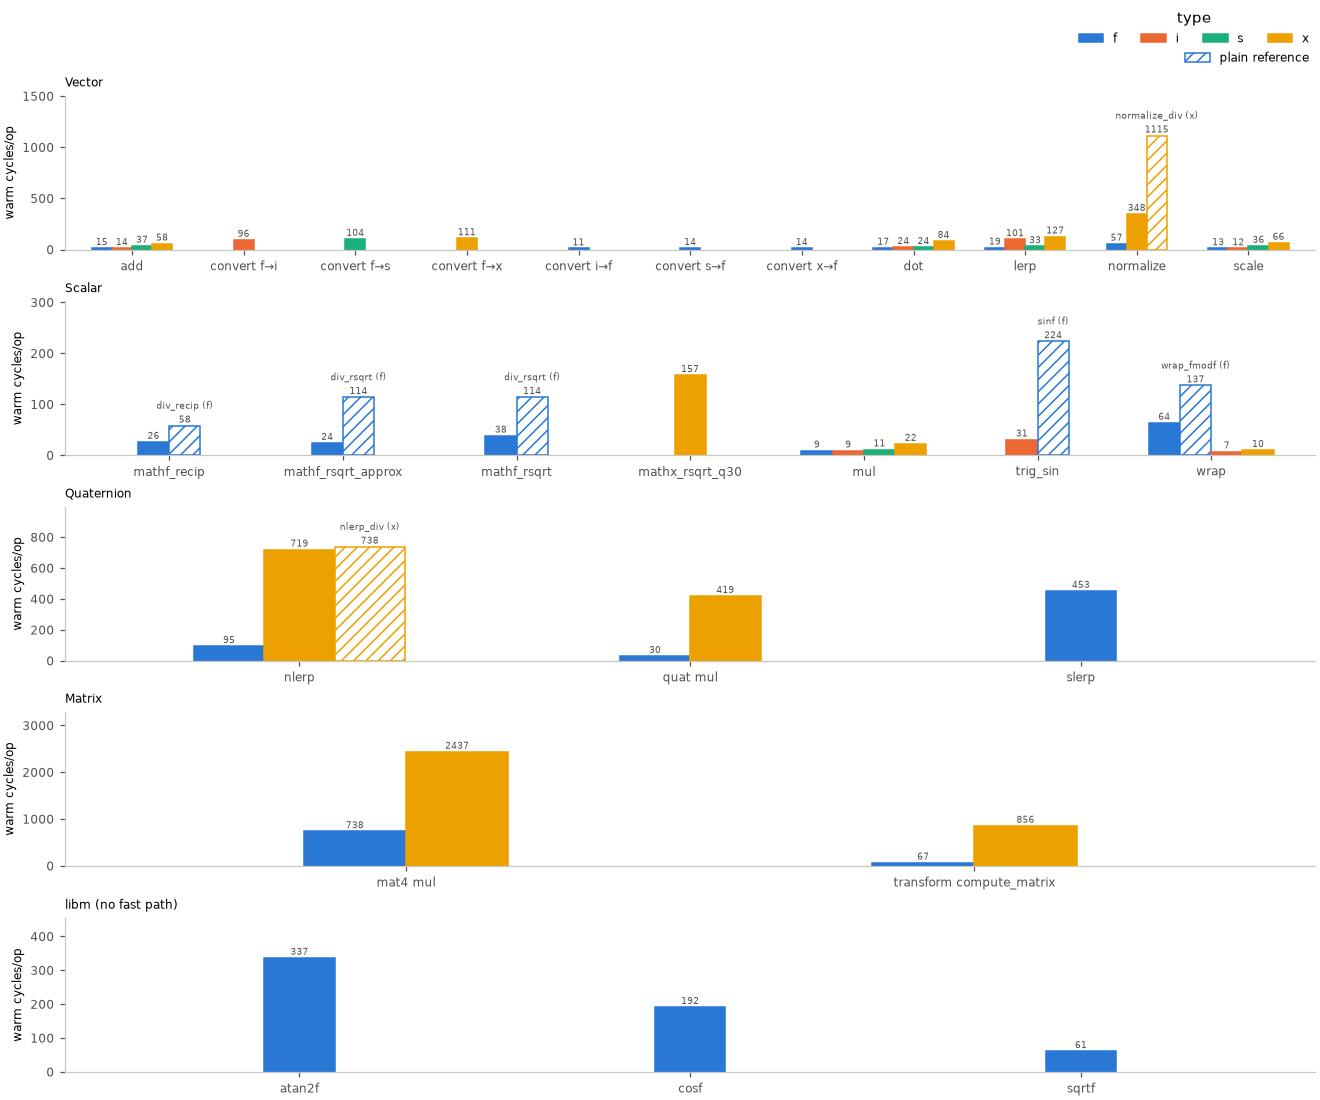
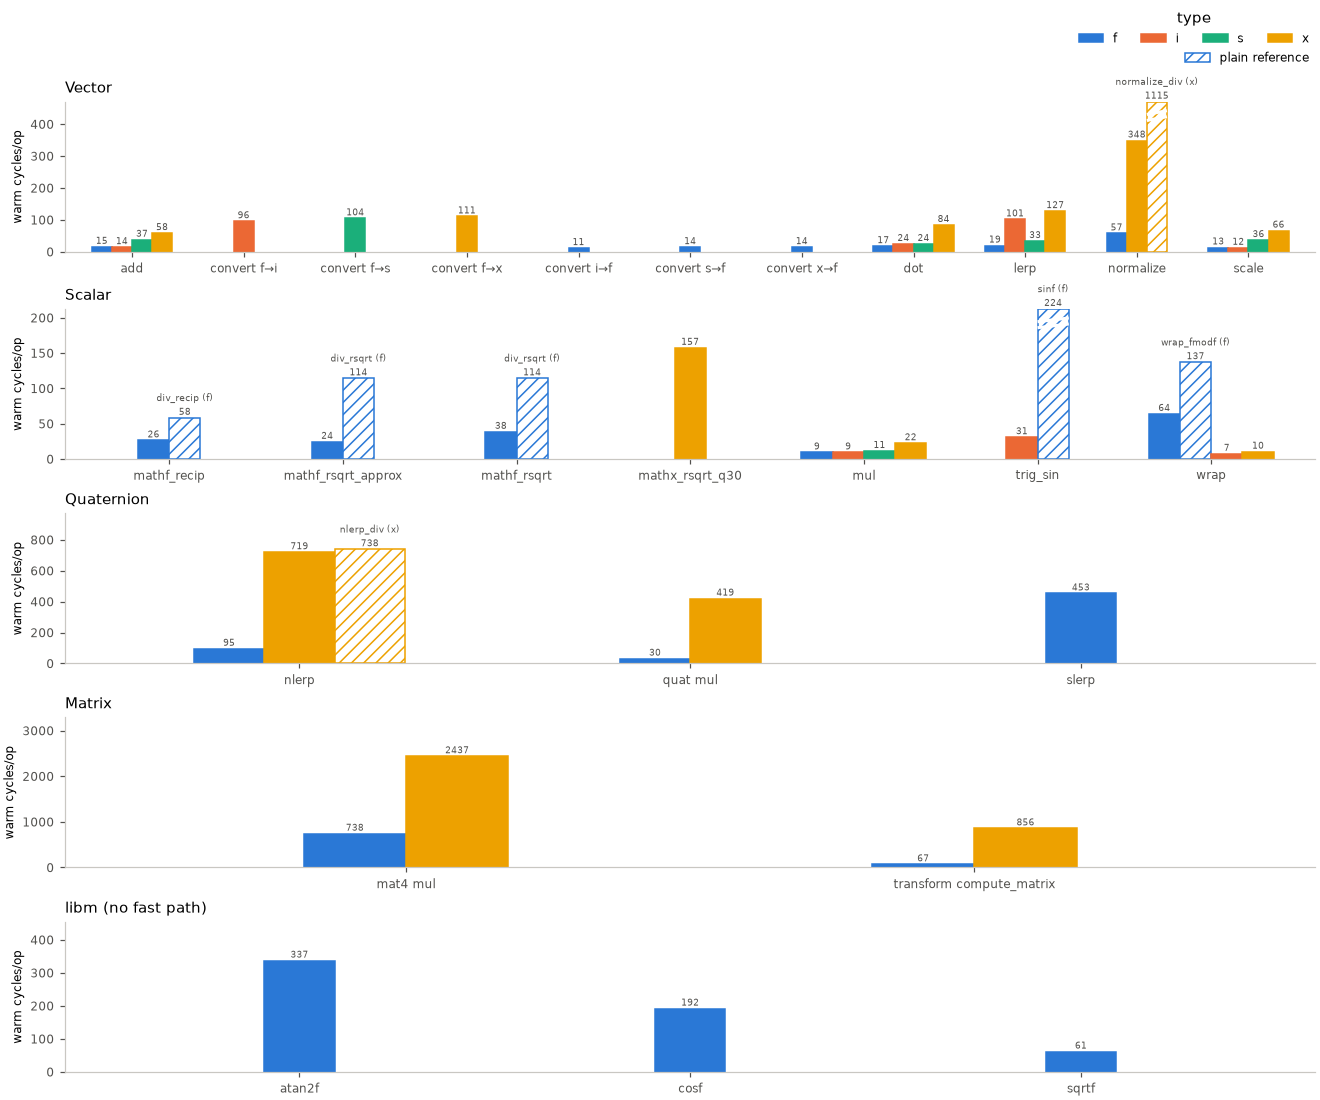
math: keep benchmark reference bars within panel scale

diff --git a/scripts/gates/tests/test_math_bench_figures.py b/scripts/gates/tests/test_math_bench_figures.py
@@ -27,8 +27,11 @@ class MathBenchFigureTests(unittest.TestCase):
             bars = [bar for axis in fig.axes for bar in axis.patches]
             self.assertEqual(len(bars), len(ordinary) + len(items))
             hatched = [bar for bar in bars if bar.get_hatch() == "///"]
-            self.assertCountEqual([bar.get_height() for bar in hatched],
-                                  [measured[item.plain][0] for item in items])
+            self.assertEqual(len(hatched), len(items))
+            self.assertCountEqual([text.get_text() for axis in fig.axes for text in axis.texts
+                                   if text.get_text().isdigit()],
+                                  [f"{measured[row[0]][0]:.0f}" for row in ordinary] +
+                                  [f"{measured[item.plain][0]:.0f}" for item in items])
             labels = [tick.get_text() for axis in fig.axes for tick in axis.get_xticklabels()]
             self.assertNotIn("dot_f32_n256", labels)
             for key, label, kind, _, _ in rows:
@@ -39,6 +42,7 @@ class MathBenchFigureTests(unittest.TestCase):
             for axis in fig.axes:
                 self.assertEqual(axis.get_ylim()[0], 0)
                 self.assertEqual(axis.get_yscale(), "linear")
+                self.assertEqual(axis._left_title.get_fontsize(), figures.TITLE_SIZE)
             import matplotlib.pyplot as plt
             plt.close(fig)
 
@@ -50,7 +54,7 @@ class MathBenchFigureTests(unittest.TestCase):
         from types import SimpleNamespace
         rows = [("a_f", "chosen", "f", 1, "scalar"),
                 ("b_i", "reference", "i", 1, "libm")]
-        measured = {"a_f": (2, 3, 1), "b_i": (5, 6, 1)}
+        measured = {"a_f": (5, 6, 1), "b_i": (2, 3, 1)}
         items = [SimpleNamespace(fast="a_f", plain="b_i")]
         fig = figures.render(rows, measured, items)
         self.assertEqual(len(fig.axes), 1)
@@ -58,7 +62,33 @@ class MathBenchFigureTests(unittest.TestCase):
         self.assertEqual([tick.get_text() for tick in axis.get_xticklabels()], ["chosen"])
         fast, plain = axis.patches
         self.assertLess(fast.get_x(), plain.get_x())
+        self.assertEqual(plain.get_height(), measured["b_i"][0])
+        self.assertEqual(len(axis.lines), 0)
         self.assertEqual(plain.get_edgecolor(), to_rgba(figures.SLOTS[1]))
         self.assertIn("reference (i)", [text.get_text() for text in axis.texts])
         import matplotlib.pyplot as plt
         plt.close(fig)
+
+    def test_tall_reference_preserves_panel_scale_and_true_value(self):
+        import math_bench_figures as figures
+        from types import SimpleNamespace
+        rows = [("fast_x", "normalize", "x", 1, "vector"),
+                ("plain_x", "normalize_div", "x", 1, "vector")]
+        measured = {"fast_x": (100, 100, 1), "plain_x": (1115, 1115, 1)}
+        fig = figures.render(rows, measured, [SimpleNamespace(fast="fast_x", plain="plain_x")])
+        import matplotlib.pyplot as plt
+        self.addCleanup(plt.close, fig)
+        axis = fig.axes[0]
+        limit = measured["fast_x"][0] * figures.VALUE_HEADROOM
+        self.assertEqual(axis.get_ylim(), (0, limit))
+        self.assertEqual(axis.get_yscale(), "linear")
+        self.assertEqual(axis.patches[1].get_height(), limit)
+        value = next(text for text in axis.texts if text.get_text() == "1115")
+        name = next(text for text in axis.texts if text.get_text() == "normalize_div (x)")
+        self.assertEqual(value.xy[1], limit)
+        self.assertEqual(name.xy[1], limit)
+        self.assertGreater(name.get_position()[1], value.get_position()[1])
+        self.assertEqual(len(axis.lines), 2)
+        for line in axis.lines:
+            self.assertEqual(line.get_color(), "white")
+            self.assertTrue(all(0 < y < limit for y in line.get_ydata()))

diff --git a/launcher/tools/math/math_bench_figures.py b/launcher/tools/math/math_bench_figures.py
@@ -8,7 +8,7 @@ ROOT = Path(__file__).resolve().parents[3]
 sys.path[:0] = [str(ROOT / "launcher/tools"), str(ROOT / "launcher/tools/perf")]
 import fast_paths
 import math_bench_table as bench
-from docs.plot_style import SLOTS, MUTED, LABEL_SIZE, subplots, style_axes, save
+from docs.plot_style import SLOTS, MUTED, LABEL_SIZE, TITLE_SIZE, subplots, style_axes, save
 from matplotlib.patches import Patch
 
 TYPE_ORDER = ("f", "i", "s", "x")
@@ -21,6 +21,10 @@ VALUE_GAP = 2
 REFERENCE_GAP = 11
 VALUE_HEADROOM = 1.35
 CATEGORY_MARGIN = 0.6
+BREAK_TOP_FRACTION = 0.94
+BREAK_GAP_FRACTION = 0.04
+BREAK_RISE_FRACTION = 0.025
+BREAK_LINE_WIDTH = 2
 
 
 def render(rows, measured, items):
@@ -46,7 +50,7 @@ def render(rows, measured, items):
         raise ValueError("no benchmark families to plot")
     fig, axes = subplots(len(panels), 1, (FIGURE_WIDTH, PANEL_HEIGHT * len(panels)), squeeze=False)
     for axis, (family, groups) in zip(axes.flat, panels):
-        heights = []
+        limit = max(measured[row[0]][0] for members in groups.values() for row in members) * VALUE_HEADROOM
         for tick, members in enumerate(groups.values()):
             bars = []
             for row in sorted(members, key=lambda row: TYPE_ORDER.index(row[2].split("_to_")[-1])):
@@ -57,23 +61,28 @@ def render(rows, measured, items):
             for offset, (row, reference) in enumerate(bars):
                 key, label, kind, _, _ = row
                 value = measured[key][0]
-                heights.append(value)
+                height = min(value, limit) if reference else value
                 position = tick + (offset - (len(bars) - 1) / 2) * width
                 colour = SLOTS[TYPE_ORDER.index(kind.split("_to_")[-1])]
-                axis.bar(position, value, width, color="white" if reference else colour,
+                axis.bar(position, height, width, color="white" if reference else colour,
                          edgecolor=colour, hatch="///" if reference else None)
-                axis.annotate(f"{value:.0f}", (position, value), xytext=(0, VALUE_GAP),
+                if reference and value > limit:
+                    for top in (BREAK_TOP_FRACTION, BREAK_TOP_FRACTION - BREAK_GAP_FRACTION):
+                        axis.plot([position - width / 2, position + width / 2],
+                                  [limit * (top - BREAK_RISE_FRACTION), limit * top],
+                                  color="white", linewidth=BREAK_LINE_WIDTH, solid_capstyle="butt")
+                axis.annotate(f"{value:.0f}", (position, height), xytext=(0, VALUE_GAP),
                               textcoords="offset points", ha="center", fontsize=VALUE_SIZE, color=MUTED)
                 if reference:
-                    axis.annotate(f"{label} ({kind})", (position, value), xytext=(0, REFERENCE_GAP),
+                    axis.annotate(f"{label} ({kind})", (position, height), xytext=(0, REFERENCE_GAP),
                                   textcoords="offset points", ha="center", fontsize=VALUE_SIZE, color=MUTED)
         axis.set_xticks(range(len(groups)), list(groups))
         axis.set_xlim(-CATEGORY_MARGIN, len(groups) - 1 + CATEGORY_MARGIN)
-        axis.set_ylim(0, max(heights) * VALUE_HEADROOM)
+        axis.set_ylim(0, limit)
         axis.set_ylabel("warm cycles/op", fontsize=LABEL_SIZE)
         style_axes(axis, "")
         title = "libm (no fast path)" if family == "libm" else family.capitalize()
-        axis.set_title(title, loc="left", fontsize=LABEL_SIZE)
+        axis.set_title(title, loc="left", fontsize=TITLE_SIZE)
         axis.spines[["top", "right"]].set_visible(False)
     blank = Patch(visible=False)
     handles = [handle for colour in SLOTS[:len(TYPE_ORDER)] for handle in (Patch(color=colour), blank)]
